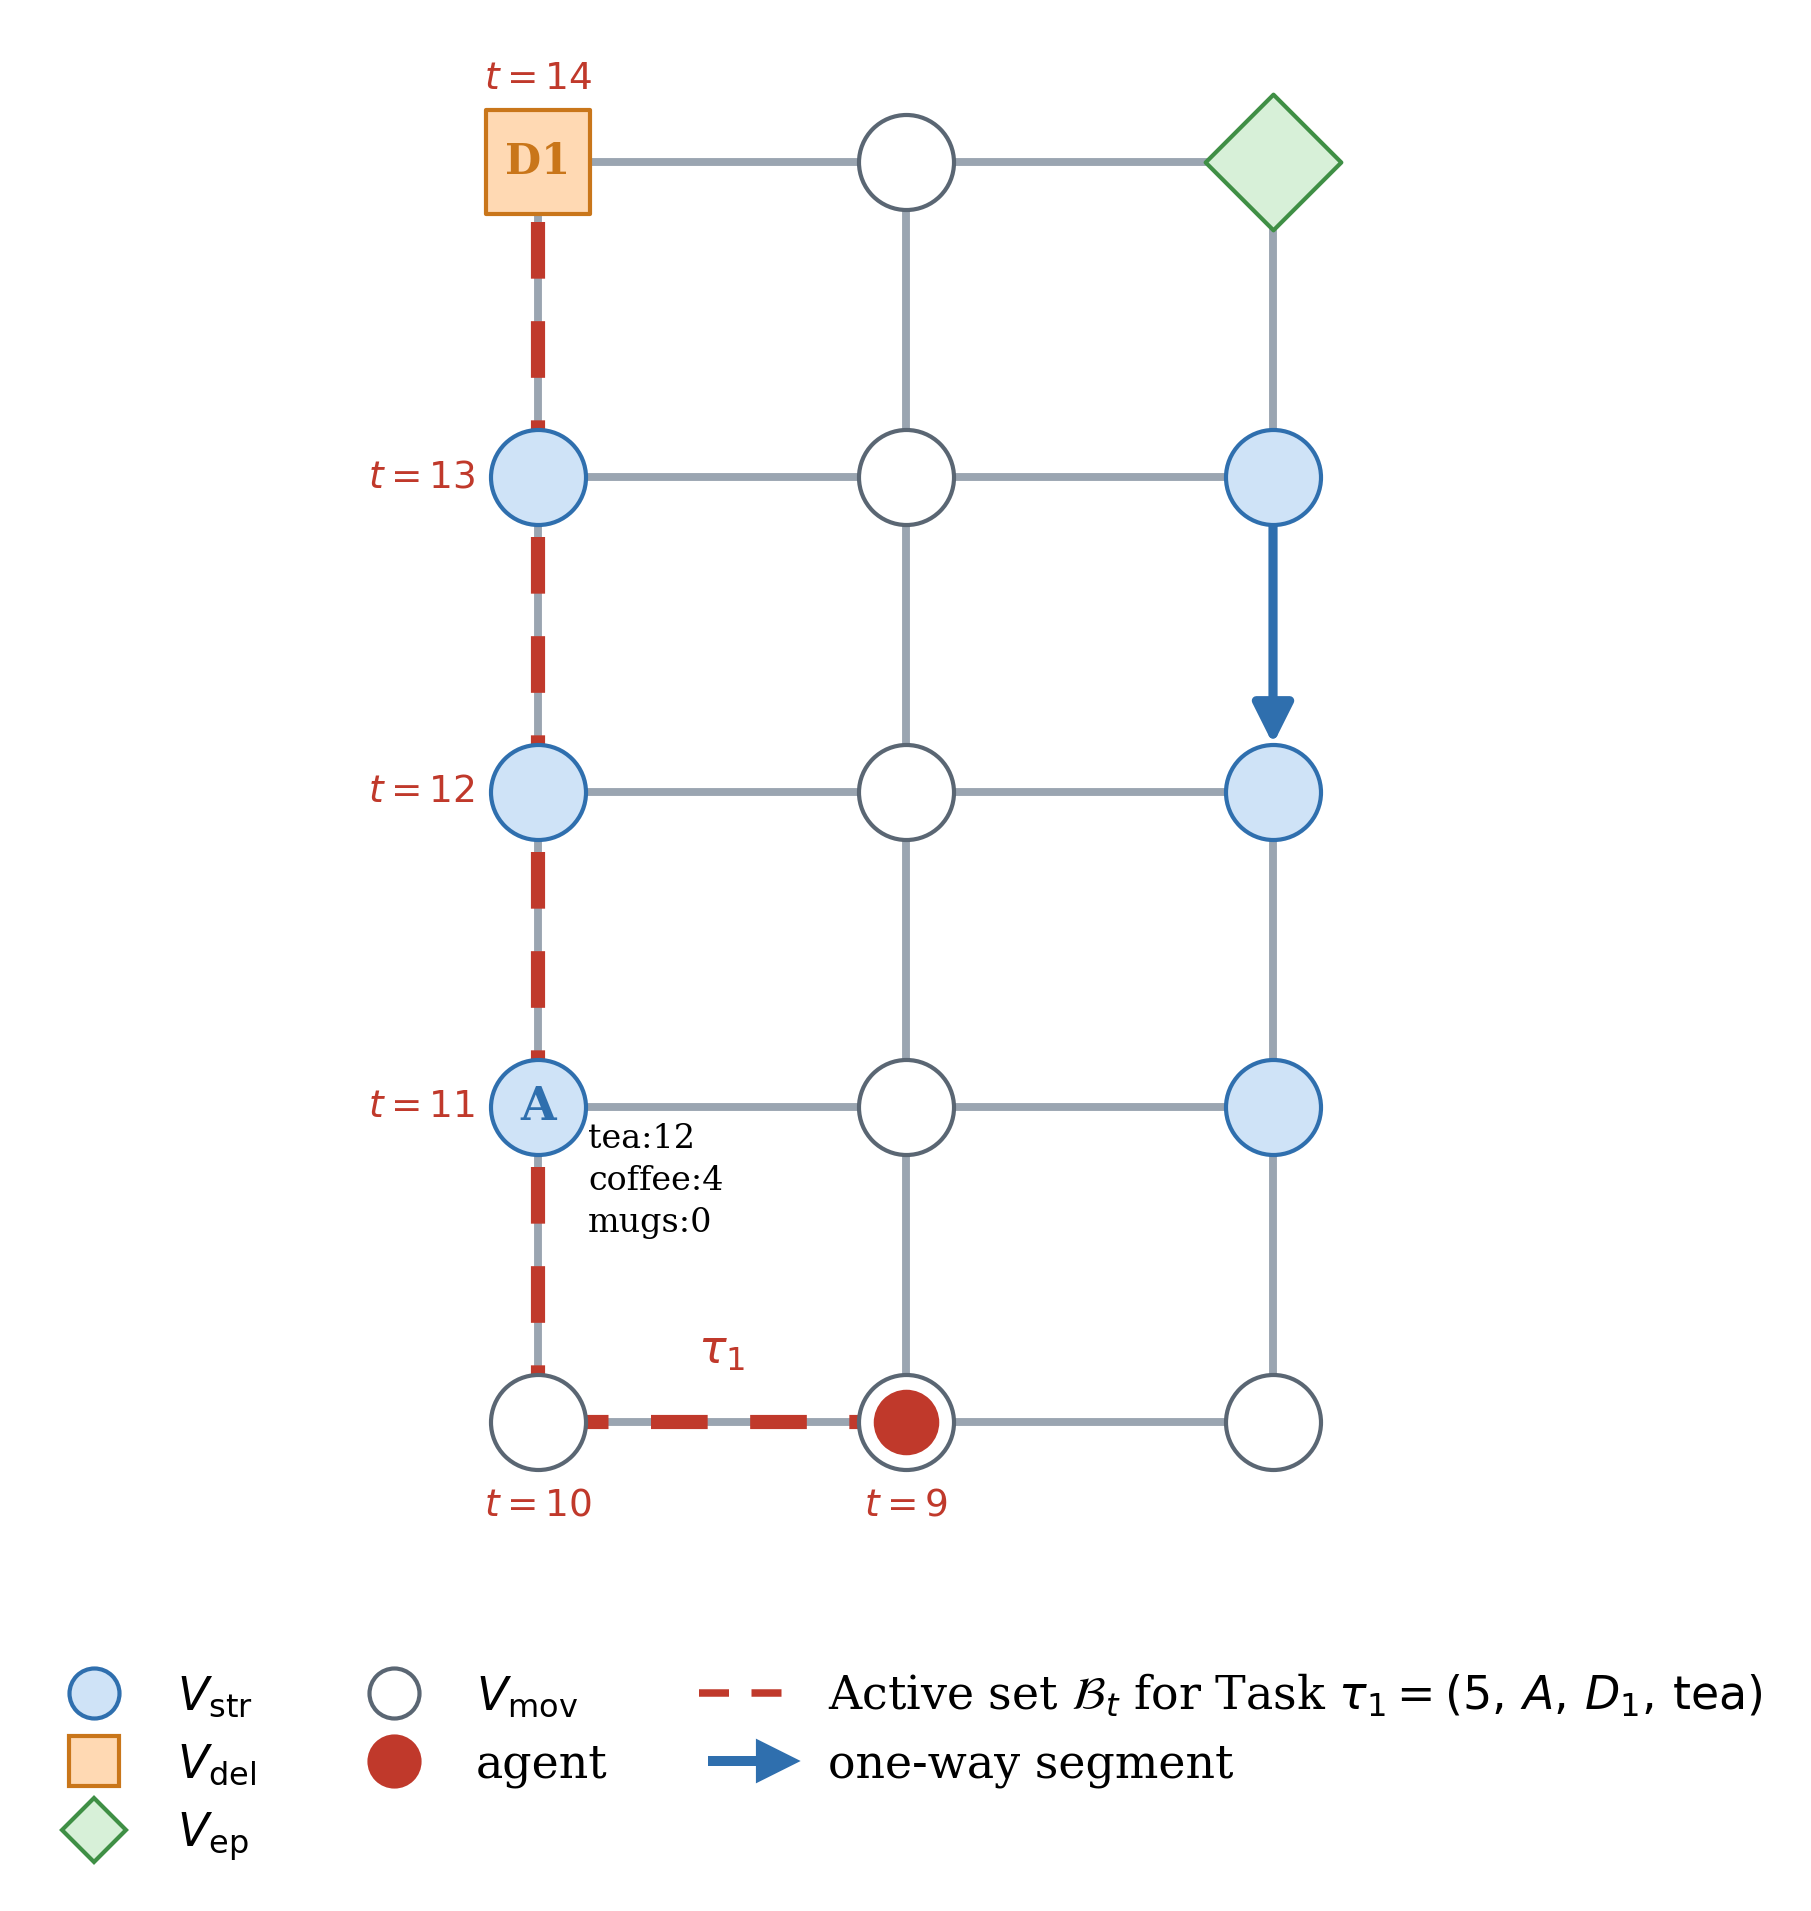
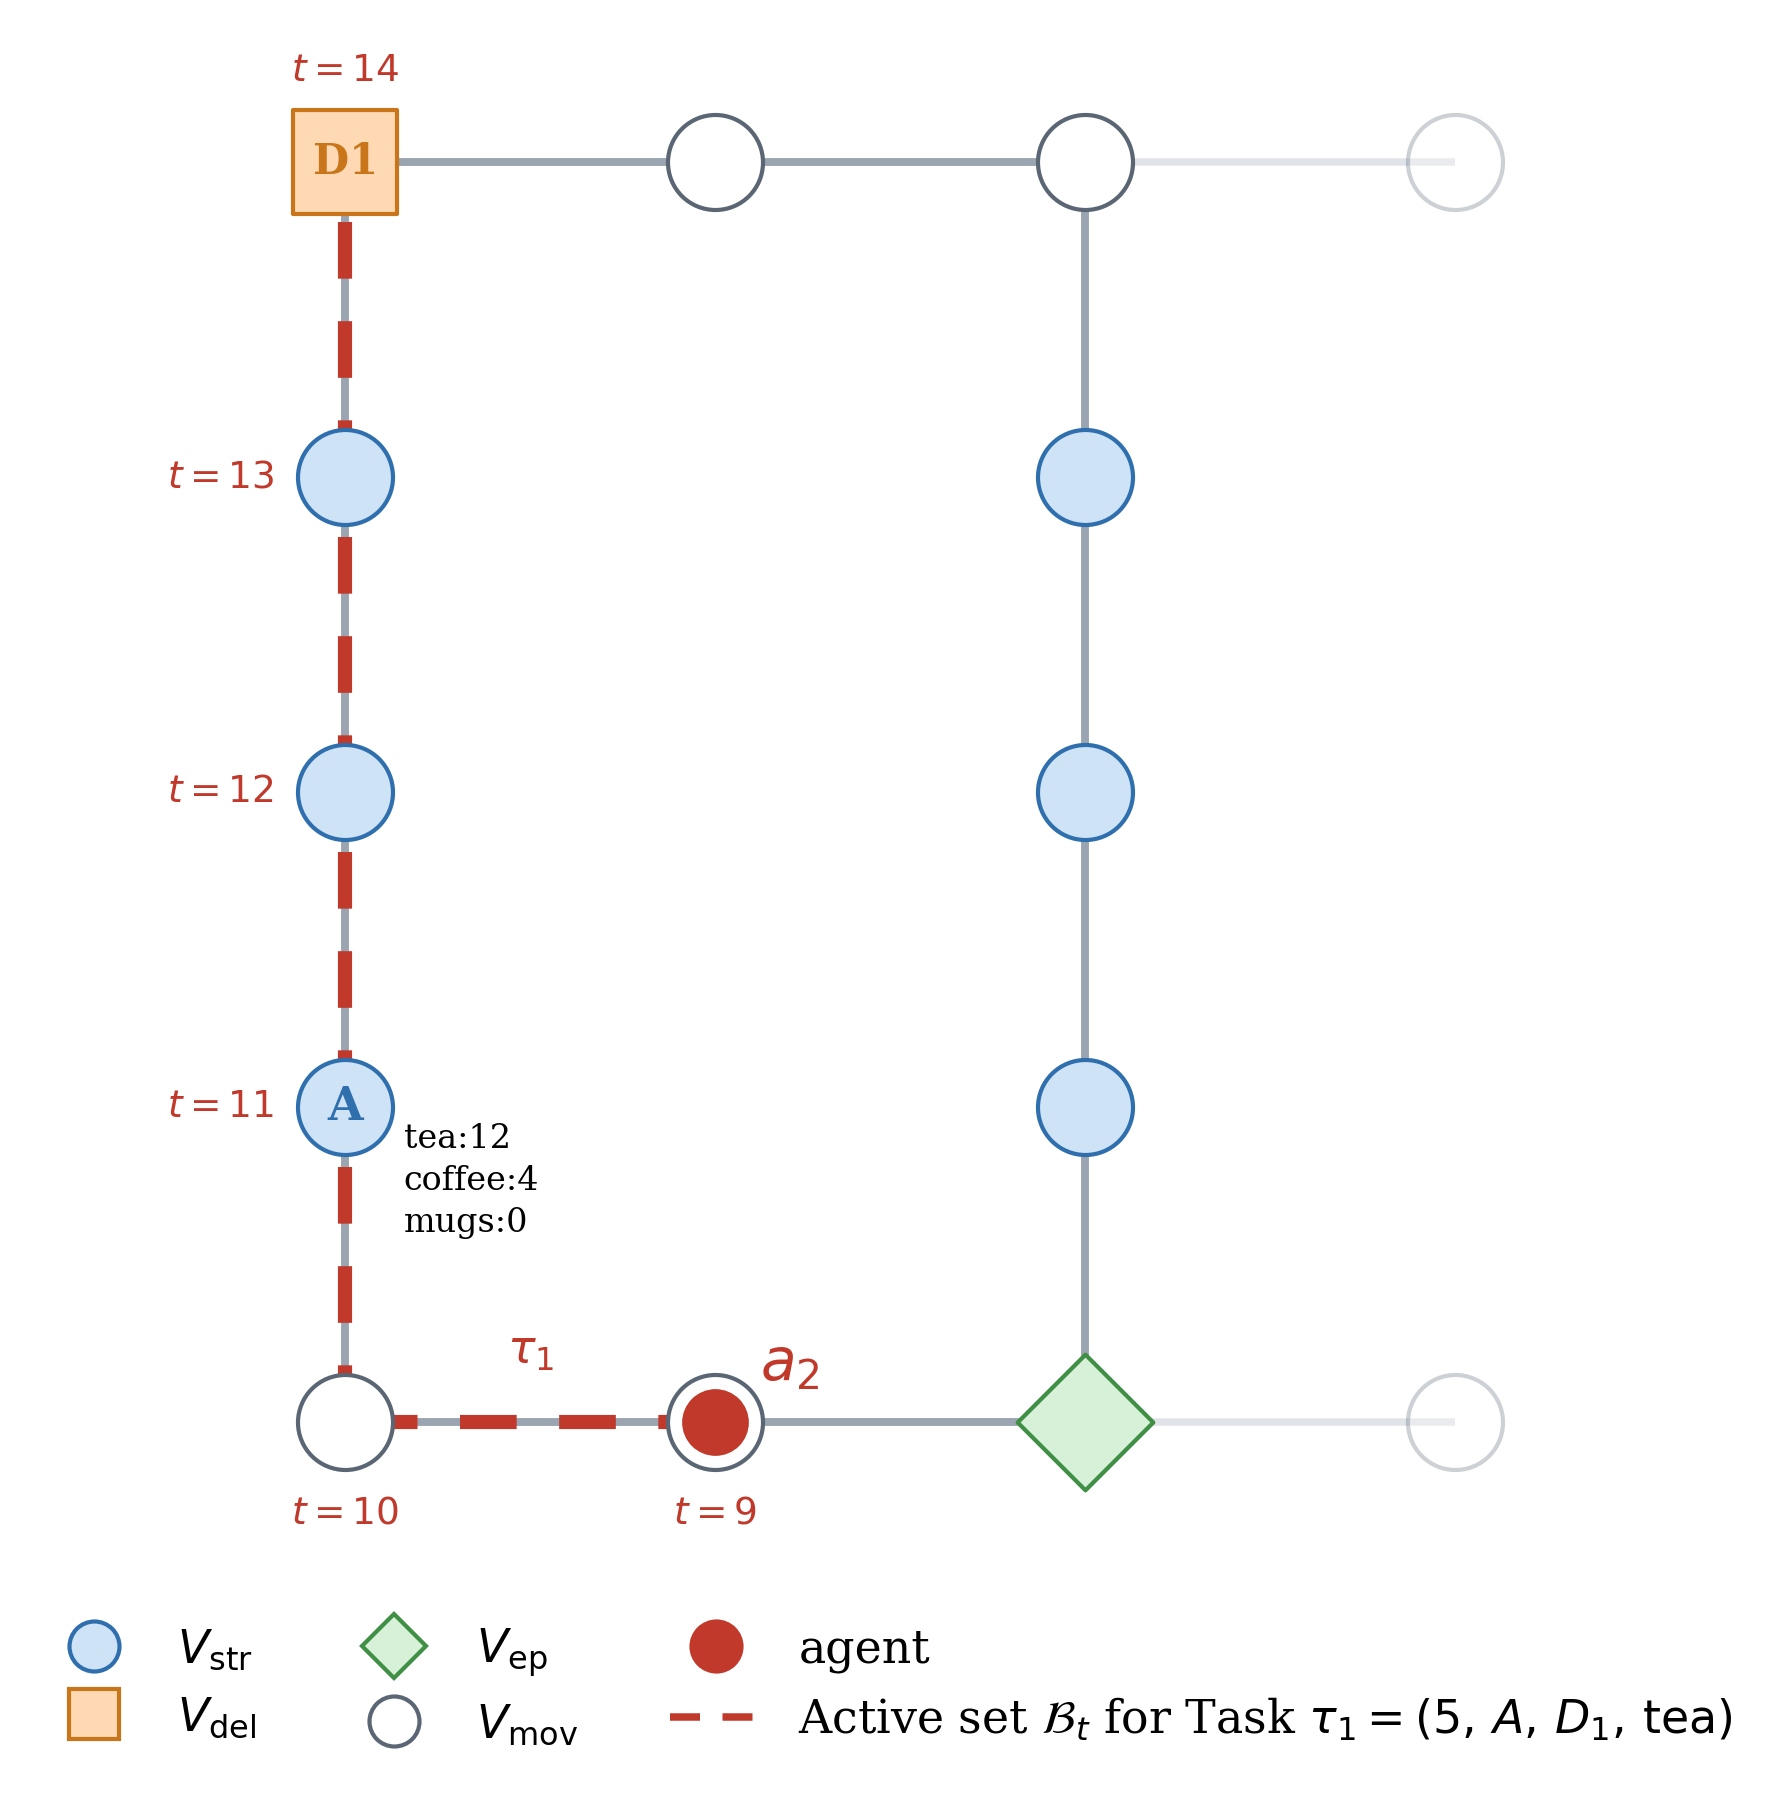
instance.py: crop of the shared warehouse, not a separate grid
The task-route figure is now the left part of base.py's warehouse, so it
matches the observation figure, which marks a_2's vertex as A.

diff --git a/scripts/images/instance.py b/scripts/images/instance.py
@@ -1,84 +1,93 @@
 import matplotlib.pyplot as plt
-from matplotlib.legend_handler import HandlerLine2D
 from matplotlib.lines import Line2D
 import networkx as nx
 
-from base import OUT, C
-from mini import mini_graph, draw_mini, put_agent
+from base import OUT, C, G, POS, STORAGE, DELIVERY, ENDPOINTS
 
-# A small, self-contained warehouse instead of cropping the full 5x9 one
-# (base.py's G/POS): the route only ever needs 2 columns and 5 rows, so a
-# tiny grid keeps every marker, label and info box legible without
-# chopping the shared graph in half mid-node.
-STORAGE = ["1_0", "2_0", "3_0", "1_2", "2_2", "3_2"]
-DELIVERY = ["0_0"]
-ENDPOINTS = ["0_2"]
-ONE_WAY = ("1_2", "2_2")  # allowed direction only: 1_2 -> 2_2
+# The left part of the shared warehouse (base.py's G/POS), the same graph
+# fig:observation shows in full, so the task example and the observation
+# example are one warehouse and one story: a_2 is assigned tau_1 at t=9,
+# picks up at A at t=11 (where fig:observation shows it), delivers at D1 at
+# t=14. Columns 0-2 are drawn, column 3 faded to show the warehouse goes on.
+# Odd columns only exist on the two cross-aisles, as everywhere in base.py,
+# so there is no middle path here, unlike the old stand-alone 5x3 grid.
+SHOWN_COLS, FADED_COL = 2, 3
+
+
+def _col(n):
+    return int(n.split("_")[1])
 
 
 def instance():
     """
-    One agent, one task. Path lengths are chosen to match the running
-    example (Table tab:tau1timeline in 2.Introduction.tex): agent to
-    pickup is 2 hops (t_assigned=9 -> t_pickup=11), pickup to delivery is
-    3 hops (t_pickup=11 -> t_finish=14), so the picture doesn't silently
-    contradict the numbers used in the text.
+    One agent, one task. Path lengths match the running example (Table
+    tab:tau1timeline in 2.Introduction.tex): agent to pickup is 2 hops
+    (t_assigned=9 -> t_pickup=11), pickup to delivery is 3 hops
+    (t_pickup=11 -> t_finish=14).
     """
-    G, POS = mini_graph(rows=5, cols=3, one_way=ONE_WAY)
-    fig, ax = plt.subplots(figsize=(7.5, 6.6))
-    draw_mini(ax, G, POS, storage=STORAGE, delivery=DELIVERY, endpoints=ENDPOINTS)
-    legend_center = 0.5
+    shown = [n for n in G if _col(n) <= SHOWN_COLS]
+    faded = [n for n in G if _col(n) == FADED_COL]
+    fig, ax = plt.subplots(figsize=(6.2, 6.6))
+
+    solid = [(u, v) for u, v in G.subgraph(shown).edges()]
+    edge_out = [(u, v) for u, v in G.edges() if u in shown and v in faded]
+    nx.draw_networkx_edges(G, POS, edgelist=solid, ax=ax, edge_color=C["edge"],
+                           width=1.8, arrows=False)
+    nx.draw_networkx_edges(G, POS, edgelist=edge_out, ax=ax, edge_color=C["edge"],
+                           width=1.8, alpha=0.3, arrows=False)
+    nx.draw_networkx_nodes(G, POS, nodelist=faded, node_color="white",
+                           edgecolors=C["node"], node_size=520, alpha=0.3, ax=ax)
+    roles = (
+        ([n for n in shown if n not in STORAGE + DELIVERY + ENDPOINTS], "white", C["node"], "o", 520),
+        ([n for n in shown if n in STORAGE], C["store_f"], C["store_e"], "o", 520),
+        ([n for n in shown if n in DELIVERY], C["del_f"], C["del_e"], "s", 620),
+        ([n for n in shown if n in ENDPOINTS], C["ep_f"], C["ep_e"], "D", 530),
+    )
+    for nl, fc, ec, shape, size in roles:
+        nx.draw_networkx_nodes(G, POS, nodelist=nl, node_color=fc, edgecolors=ec,
+                               node_shape=shape, node_size=size, ax=ax)
+
     a_start, sj, gj = "4_1", "3_0", "0_0"
-    # mini_graph is a full dense grid (unlike base.py's sparse aisle
-    # graph), so more than one shortest path exists between these nodes.
-    # The route is spelled out explicitly rather than left to
-    # nx.shortest_path's arbitrary tie-breaking.
     route = ["4_1", "4_0", "3_0", "2_0", "1_0", "0_0"]
     for u, v in zip(route, route[1:]):
         assert G.has_edge(u, v), (u, v)
-    assert route[2] == sj and route[-1] == gj
+    assert sj in STORAGE and gj in DELIVERY
     assert route.index(sj) == 2   # t_assigned -> t_pickup: 2 hops
     assert len(route) - 1 - route.index(sj) == 3  # t_pickup -> t_finish: 3 hops
     nx.draw_networkx_edges(G, POS, edgelist=list(zip(route, route[1:])),
                            edge_color=C["agent"], width=3.4, style=(0, (4, 3)), ax=ax,
                            arrows=False)
-    put_agent(ax, POS, a_start, "")
-    # In-node letters, same convention as the storage-matrix example
-    # (Table tab:storagematrix) and slap_mapd_coupling's own
-    # assign_vertex_names/plot_node_names: storage vertices get A, B, C,
-    # ...; delivery vertices get D1, D2, .... Centered on the marker,
-    # colored by role, so s_j / g_j (the abstract task-tuple symbols) and
-    # A / D1 (the concrete vertices they resolve to here) are both visible
-    # at once instead of only one or the other.
+    ax.scatter(*POS[a_start], s=300, c=C["agent"], zorder=5,
+               edgecolors="white", linewidths=1.3)
+    ax.annotate(r"$a_2$", POS[a_start], textcoords="offset points", xytext=(18, 10),
+                ha="center", color=C["agent"], fontsize=14)
+    # In-node letters: storage vertices A, B, ..., delivery vertices D1, D2,
+    # the same convention as fig:observation and slap_mapd_coupling.
     ax.annotate("A", POS[sj], ha="center", va="center", fontsize=11,
                 fontweight="bold", color=C["store_e"], zorder=6)
     ax.annotate("D1", POS[gj], ha="center", va="center", fontsize=10,
                 fontweight="bold", color=C["del_e"], zorder=6)
-    # A's contents, same "sku:count" convention as
-    # slap_mapd_coupling's plot_storage_contents (units > 0 only, labelled
-    # underneath the vertex): tea 12, coffee 4, matching
-    # Table tab:storagematrix exactly. mugs is left out because it is 0
-    # at A, which is also why tau_2 in the task box above is illegal.
+    # A's contents, matching Table tab:storagematrix. mugs is 0 at A,
+    # which is why tau_2 in the text is illegal.
     held_at_a = [("tea", 12), ("coffee", 4), ("mugs", 0)]
     ax.annotate("\n".join(f"{sku}:{units}" for sku, units in held_at_a),
                 POS[sj], textcoords="offset points",
-                xytext=(12, -10 * len(held_at_a)), fontsize=8,
+                xytext=(14, -10 * len(held_at_a)), fontsize=8,
                 linespacing=1.4, zorder=7)
     # One timestep per hop, matching fig:lifecycle's t_assigned=9 ...
-    # t_finish=14: makes each step of the route individually identifiable,
-    # not just the route's two named endpoints. Offsets are hand-placed
-    # per node to clear the existing agent/A/D1 labels and markers, and
-    # each gets a white halo so it never visually merges with the route
-    # line or a node underneath it even if placement is imperfect at
-    # other figure widths.
-    offsets = {a_start: (0, -20), "4_0": (0, -20), sj: (-28, 0),
-              "2_0": (-28, 0), "1_0": (-28, 0), gj: (0, 20)}
+    # t_finish=14.
+    offsets = {a_start: (0, -22), "4_0": (0, -22), sj: (-30, 0),
+               "2_0": (-30, 0), "1_0": (-30, 0), gj: (0, 22)}
     for i, node in enumerate(route):
-        t = 9 + i
-        ax.annotate(f"$t{{=}}{t}$", POS[node], textcoords="offset points",
-                    xytext=offsets[node], fontsize=9, color=C["agent"], ha="center", va="center",
+        ax.annotate(f"$t{{=}}{9 + i}$", POS[node], textcoords="offset points",
+                    xytext=offsets[node], fontsize=9, color=C["agent"],
+                    ha="center", va="center",
                     bbox=dict(boxstyle="round,pad=0.20", facecolor="white",
-                             edgecolor="none", alpha=0.25))
+                              edgecolor="none", alpha=0.25))
+    mid = ((POS[a_start][0] + POS["4_0"][0]) / 2, POS[a_start][1])
+    ax.annotate(r"$\tau_1$", mid, textcoords="offset points", xytext=(0, 14),
+                fontsize=11, color=C["agent"], ha="center", fontweight="bold")
+
     handles = [
         Line2D([], [], marker="o", ls="", mfc=C["store_f"], mec=C["store_e"], ms=12,
                label=r"$V_{\mathrm{str}}$"),
@@ -92,29 +101,9 @@ def instance():
         Line2D([], [], ls=(0, (4, 3)), color=C["agent"], lw=1.8,
                label=r"Active set $\mathcal{B}_t$ for Task $\tau_1=(5,\,A,\,D_1,\,\mathrm{tea})$"),
     ]
-    oneway_handle = Line2D([], [], color=C["accent"], lw=2.4, marker=">",
-                           markersize=9, label=r"one-way segment")
-    handles.append(oneway_handle)
-    leg = ax.legend(handles=handles, loc="upper center", bbox_to_anchor=(legend_center, -0.05),
-                    ncol=3, frameon=False, fontsize=11,
-                    handler_map={oneway_handle: HandlerLine2D(numpoints=2)})
-    # HandlerLine2D doesn't propagate markevery from the original handle
-    # to the legend's own copy, so pin it directly on the rendered legend
-    # line instead: mark only the last of its two points, putting the
-    # arrowhead at the end of the sample bar rather than its middle.
-    for lh in leg.legend_handles:
-        if lh.get_label() == "one-way segment":
-            lh.set_markevery([len(lh.get_xdata()) - 1])
+    ax.legend(handles=handles, loc="upper center", bbox_to_anchor=(0.5, -0.02),
+              ncol=3, frameon=False, fontsize=11)
     ax.set_aspect("equal"); ax.set_axis_off()
-
-
-    # Small in-place tag on the route itself, same color as the label
-    # above and the route/agent, reinforcing which task this route is
-    # without the reader needing to hold the box-to-route link in mind.
-    mid = ((POS[a_start][0] + POS["4_0"][0]) / 2, POS[a_start][1])
-    ax.annotate(r"$\tau_1$", mid, textcoords="offset points", xytext=(0, 14),
-                fontsize=11, color=C["agent"], ha="center", fontweight="bold")
-
     fig.savefig(f"{OUT}/instance.png"); plt.close(fig)
 
 

diff --git a/scripts/images/observation.py b/scripts/images/observation.py
@@ -37,6 +37,11 @@ def observation(ego="4_1", depth=2, target="0_0"):
     # Solid white fill so the edges through them do not cross the letters.
     nx.draw_networkx_nodes(G, POS, nodelist=["4_0", "4_2"], node_size=470, node_color="white",
                            edgecolors=C["accent"], linewidths=3.0, ax=ax)
+    # a_2 stands on storage vertex A, the pickup of tau_1 in fig:taskroute:
+    # this is the same warehouse at t=11, when a_2 picks up the tea.
+    ax.annotate("A", POS["3_0"], textcoords="offset points", xytext=(15, -17),
+                ha="center", va="center", fontsize=12, fontweight="bold",
+                color=C["store_e"], zorder=6)
     for n, lab in (("4_0", "B"), ("4_2", "C")):
         ax.annotate(lab, POS[n], ha="center", va="center", fontsize=12,
                     fontweight="bold", color=C["text"], zorder=6)
